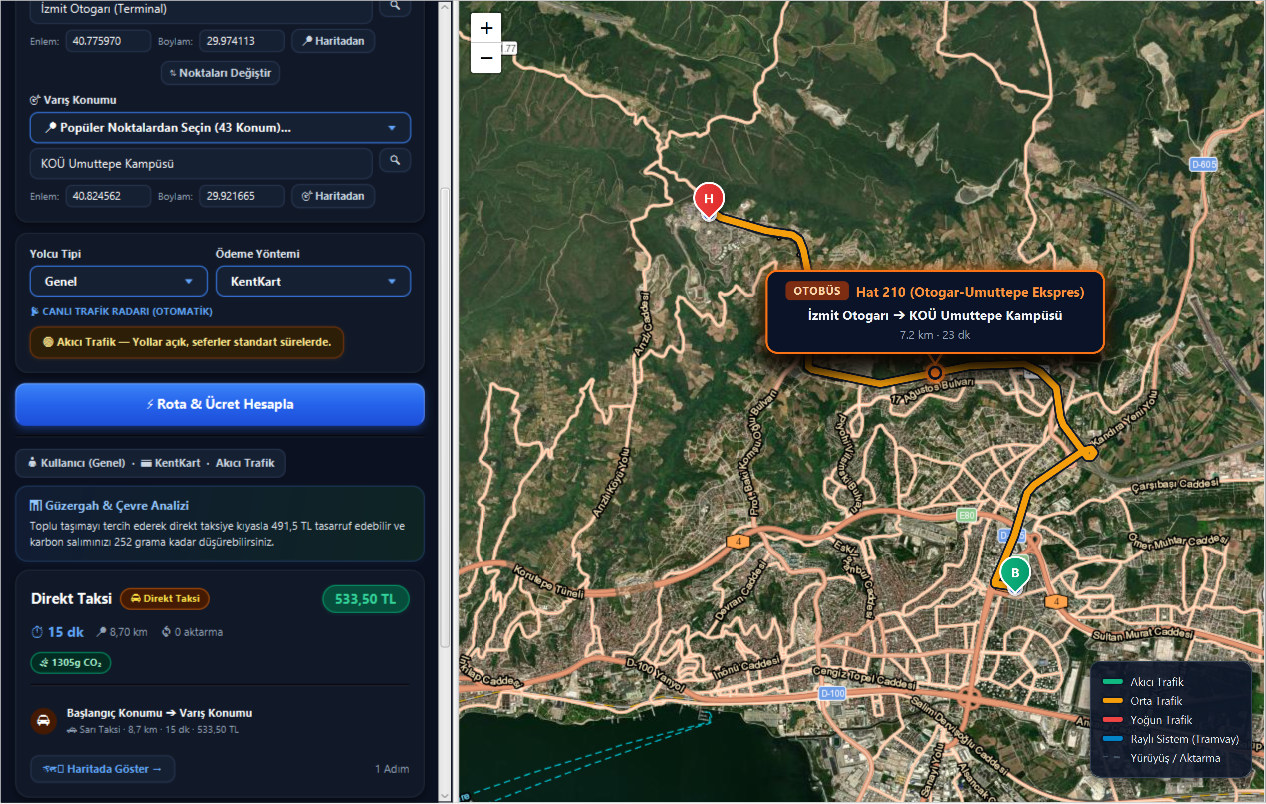
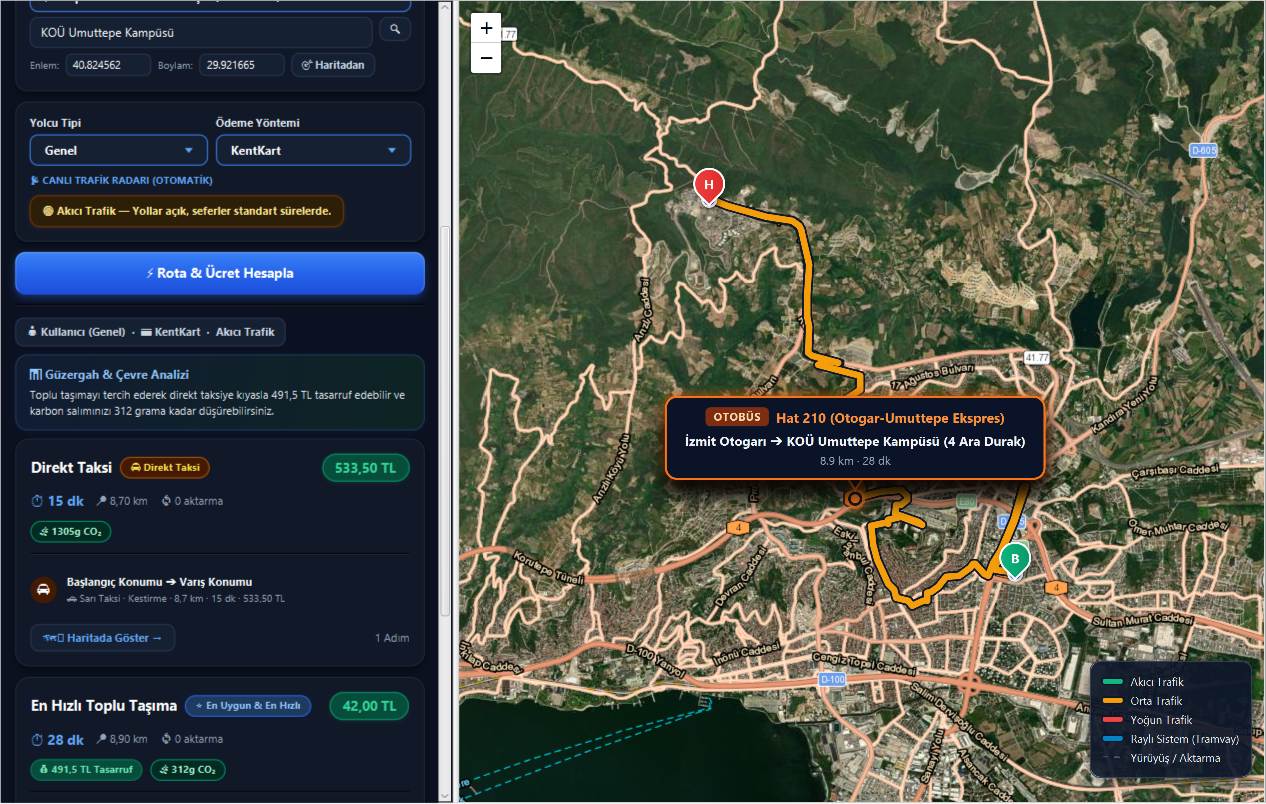
fix: Otobüs ve taksi rotaları ayrıştırıldı; otobüs ara duraklara (Tavşantepe, Şehir Hastanesi, Gündoğdu, Ayazma) bağlandı, taksi kestirme ekspres yola alındı

diff --git a/src/main/resources/map/map.html b/src/main/resources/map/map.html
@@ -656,7 +656,8 @@
           badgeLabel = 'YÜRÜYÜŞ';
         }
 
-        var endpointsText = (seg.baslangic && seg.bitis) ? (seg.baslangic + ' ➔ ' + seg.bitis) : 'Güzergah Etabı';
+        var durakEk = seg.araDurakSayisi ? (' (' + seg.araDurakSayisi + ' Ara Durak)') : (seg.tip === 'taksi' ? ' (Kestirme)' : '');
+        var endpointsText = (seg.baslangic && seg.bitis) ? (seg.baslangic + ' ➔ ' + seg.bitis + durakEk) : 'Güzergah Etabı';
         var metaText = (seg.mesafe ? (seg.mesafe + ' km') : '') + (seg.sure ? (' · ' + seg.sure + ' dk') : '');
 
         var calloutHtml =

diff --git a/src/main/java/com/ulasim/hesaplama/ui/RouteCardFactory.java b/src/main/java/com/ulasim/hesaplama/ui/RouteCardFactory.java
@@ -128,6 +128,11 @@ final class RouteCardFactory {
         double indirimliUcret = yolcu.indirimHesapla(segment.getUcret(), segment.getAracTipi());
         StringBuilder metaStr = new StringBuilder();
         metaStr.append(segment.getHatBilgisi());
+        if (segment.getDuraklar() != null && segment.getDuraklar().size() > 2) {
+            metaStr.append(String.format(" · %d Ara Durak", segment.getDuraklar().size() - 2));
+        } else if ("taksi".equalsIgnoreCase(segment.getTip())) {
+            metaStr.append(" · Kestirme");
+        }
         metaStr.append(String.format(" · %.1f km · %.0f dk", segment.getMesafe(), segment.getSure()));
         
         if (indirimliUcret > 0) {

diff --git a/src/main/java/com/ulasim/hesaplama/ui/map/MapView.java b/src/main/java/com/ulasim/hesaplama/ui/map/MapView.java
@@ -154,6 +154,9 @@ public class MapView {
             obj.put("bitis", com.ulasim.hesaplama.service.KocaeliHatRehberi.temizDurakAdi(segment.getBitisDurak().isim));
             obj.put("mesafe", String.format(Locale.ROOT, "%.1f", segment.getMesafe()));
             obj.put("sure", (int) Math.round(segment.getSure()));
+            if (segment.getDuraklar() != null && segment.getDuraklar().size() > 2) {
+                obj.put("araDurakSayisi", segment.getDuraklar().size() - 2);
+            }
 
             JSONArray coords = new JSONArray();
             if (segment.getDuraklar() != null && !segment.getDuraklar().isEmpty()) {
